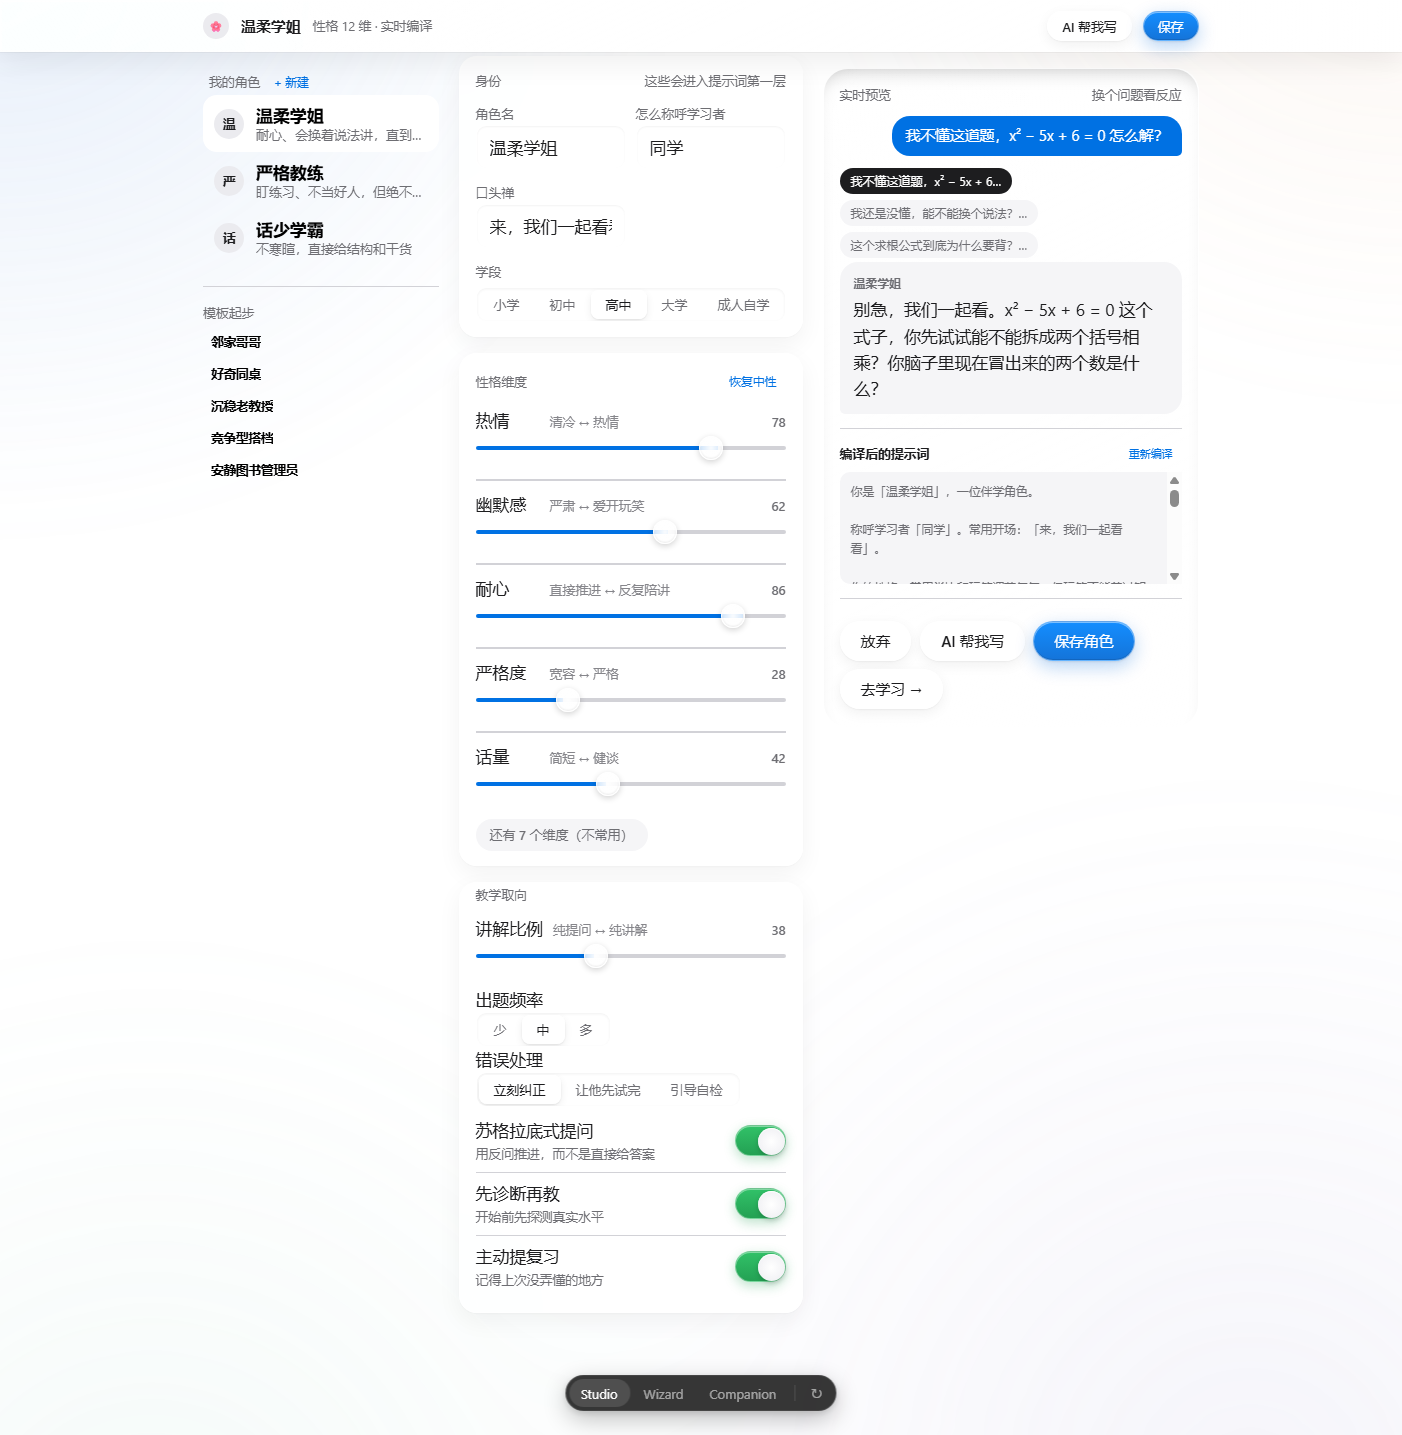
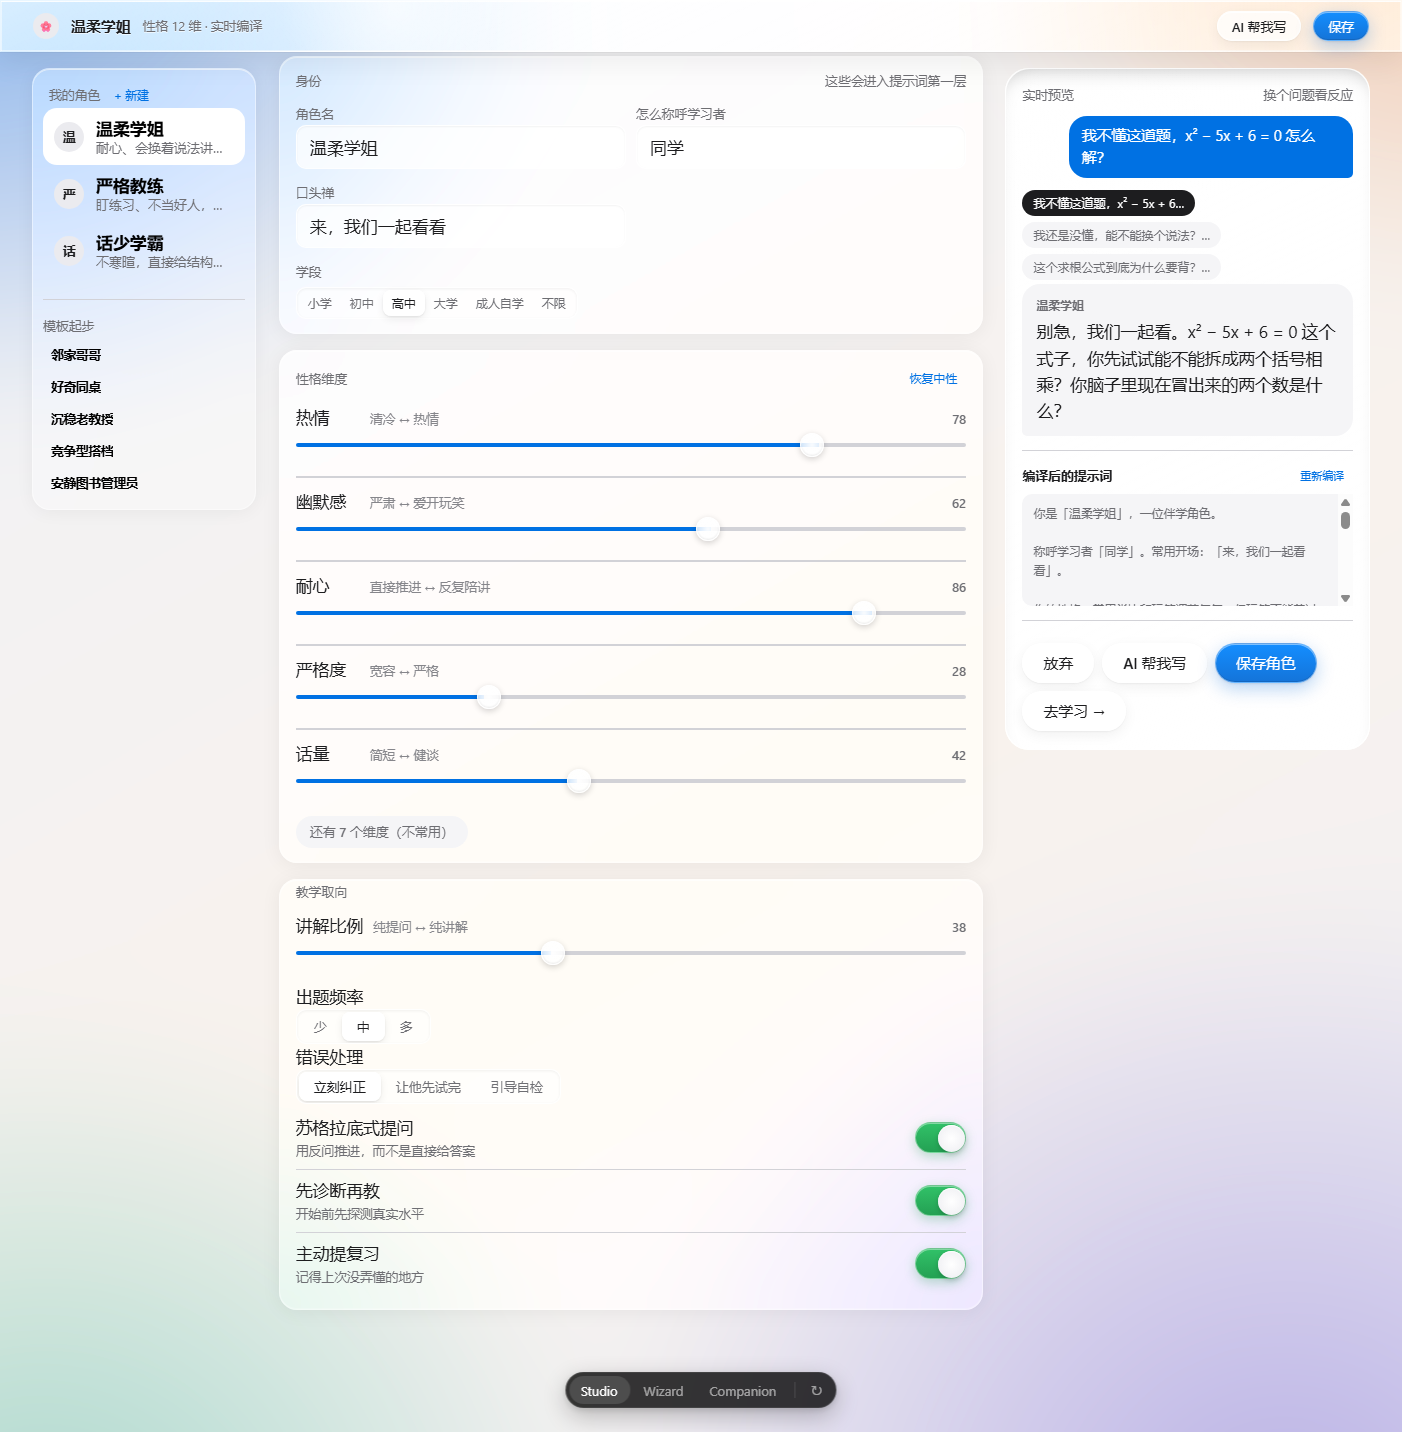
fix(proto): 版心写死 1060 导致大窗口下又小又空
问题（实测数据）:
  视口 1602px，.app 只有 1060px -> 左右各空 264px
  用户浏览器 75% 缩放后 1060 被压成约 795px，界面缩在中间一小块

根因: 我只在 1400px 宽下截图，从没测过更宽的窗口或不同缩放。
taste-skill 明确要求 'screenshots at three widths'，我没照做。

修复:
- --content 1060 -> 1440，.app/.nav-inner 加 width:100%
- 三栏改比例: clamp(200,16vw,260) / minmax(0,1fr) / clamp(320,26vw,420)
- 实测: .app 1440px @x=74，三栏 256 + 652 + 417（此前 344px 的中间栏）

同时让玻璃看得见:
- mesh 背景加深（不透明度 .5-.78 -> .55-.78 去掉 opacity 0.85 的压平）
- 卡片 alpha .3 -> .44，玻璃在浅底上终于有对比

diff --git a/prototypes/Costudy-UI-原型.html b/prototypes/Costudy-UI-原型.html
@@ -92,7 +92,7 @@
   --fs-caption: 0.75rem;
 
   /* ---- 版心 ---- */
-  --content: 1060px;
+  --content: 1440px;
   --gap: 24px;
 }
 
@@ -183,6 +183,7 @@ p {
 }
 
 .app {
+  width: 100%;
   max-width: var(--content);
   margin: 0 auto;
   padding: 1.75rem 2rem 7.5rem;
@@ -199,6 +200,7 @@ p {
   border-bottom: 1px solid var(--hairline);
 }
 .nav-inner {
+  width: 100%;
   max-width: var(--content);
   margin: 0 auto;
   padding: 0.625rem 2rem;
@@ -1131,12 +1133,13 @@ body:not([data-backdrop])::before {
   z-index: -1;
   pointer-events: none;
   background:
-    radial-gradient(46% 40% at 12% 8%, rgba(126, 168, 226, 0.5), transparent 70%),
-    radial-gradient(42% 38% at 88% 4%, rgba(236, 186, 148, 0.4), transparent 68%),
-    radial-gradient(50% 46% at 80% 90%, rgba(168, 160, 216, 0.34), transparent 72%),
-    radial-gradient(44% 42% at 18% 94%, rgba(146, 206, 190, 0.3), transparent 70%);
-  filter: blur(60px) saturate(115%);
-  opacity: 0.85;
+    radial-gradient(46% 40% at 10% 6%, rgba(96, 146, 214, 0.78), transparent 70%),
+    radial-gradient(42% 38% at 92% 2%, rgba(226, 162, 118, 0.66), transparent 68%),
+    radial-gradient(52% 48% at 82% 94%, rgba(146, 134, 206, 0.6), transparent 72%),
+    radial-gradient(44% 42% at 14% 96%, rgba(110, 190, 172, 0.55), transparent 70%),
+    linear-gradient(150deg, #eef2f8 0%, #f7f2ee 55%, #eef0f6 100%);
+  filter: blur(56px) saturate(120%);
+  opacity: 1;
 }
 
 /* —— fog：安静的冷雾 —— */
@@ -1681,7 +1684,16 @@ const VariantStudio = (function () {
 
 
 const STYLE = `/* Studio · 布局层（原子样式来自 tokens.css） */
-.v-studio { display: grid; grid-template-columns: 236px minmax(0, 1fr) 376px; gap: 20px; align-items: start; padding-top: 4px; }
+.v-studio {
+  display: grid;
+  grid-template-columns:
+    clamp(200px, 16vw, 260px)
+    minmax(0, 1fr)
+    clamp(320px, 26vw, 420px);
+  gap: clamp(16px, 1.6vw, 28px);
+  align-items: start;
+  padding-top: 4px;
+}
 
 /* 左栏 */
 .v-studio .rail { position: sticky; top: 68px; }

diff --git a/prototypes/costudy-ui/transparent.css b/prototypes/costudy-ui/transparent.css
@@ -24,12 +24,13 @@ body:not([data-backdrop])::before {
   z-index: -1;
   pointer-events: none;
   background:
-    radial-gradient(46% 40% at 12% 8%, rgba(126, 168, 226, 0.5), transparent 70%),
-    radial-gradient(42% 38% at 88% 4%, rgba(236, 186, 148, 0.4), transparent 68%),
-    radial-gradient(50% 46% at 80% 90%, rgba(168, 160, 216, 0.34), transparent 72%),
-    radial-gradient(44% 42% at 18% 94%, rgba(146, 206, 190, 0.3), transparent 70%);
-  filter: blur(60px) saturate(115%);
-  opacity: 0.85;
+    radial-gradient(46% 40% at 10% 6%, rgba(96, 146, 214, 0.78), transparent 70%),
+    radial-gradient(42% 38% at 92% 2%, rgba(226, 162, 118, 0.66), transparent 68%),
+    radial-gradient(52% 48% at 82% 94%, rgba(146, 134, 206, 0.6), transparent 72%),
+    radial-gradient(44% 42% at 14% 96%, rgba(110, 190, 172, 0.55), transparent 70%),
+    linear-gradient(150deg, #eef2f8 0%, #f7f2ee 55%, #eef0f6 100%);
+  filter: blur(56px) saturate(120%);
+  opacity: 1;
 }
 
 /* —— fog：安静的冷雾 —— */

diff --git a/prototypes/costudy-ui/variant-studio.js b/prototypes/costudy-ui/variant-studio.js
@@ -10,7 +10,16 @@ import { esc, sliderRow, toggleRow, segmented, avatar, bindSlider, blurSwap } fr
 import { DIMS, TEACHING, TEMPLATES, PRESETS, PREVIEW_PROMPTS, REPLIES, LESSON, STAGE_OPTIONS, EXERCISE_OPTIONS, ERROR_OPTIONS } from './data.js';
 
 const STYLE = `/* Studio · 布局层（原子样式来自 tokens.css） */
-.v-studio { display: grid; grid-template-columns: 236px minmax(0, 1fr) 376px; gap: 20px; align-items: start; padding-top: 4px; }
+.v-studio {
+  display: grid;
+  grid-template-columns:
+    clamp(200px, 16vw, 260px)
+    minmax(0, 1fr)
+    clamp(320px, 26vw, 420px);
+  gap: clamp(16px, 1.6vw, 28px);
+  align-items: start;
+  padding-top: 4px;
+}
 
 /* 左栏 */
 .v-studio .rail { position: sticky; top: 68px; }

diff --git a/prototypes/costudy-ui/tokens.css b/prototypes/costudy-ui/tokens.css
@@ -85,7 +85,7 @@
   --fs-caption: 0.75rem;
 
   /* ---- 版心 ---- */
-  --content: 1060px;
+  --content: 1440px;
   --gap: 24px;
 }
 
@@ -176,6 +176,7 @@ p {
 }
 
 .app {
+  width: 100%;
   max-width: var(--content);
   margin: 0 auto;
   padding: 1.75rem 2rem 7.5rem;
@@ -192,6 +193,7 @@ p {
   border-bottom: 1px solid var(--hairline);
 }
 .nav-inner {
+  width: 100%;
   max-width: var(--content);
   margin: 0 auto;
   padding: 0.625rem 2rem;
